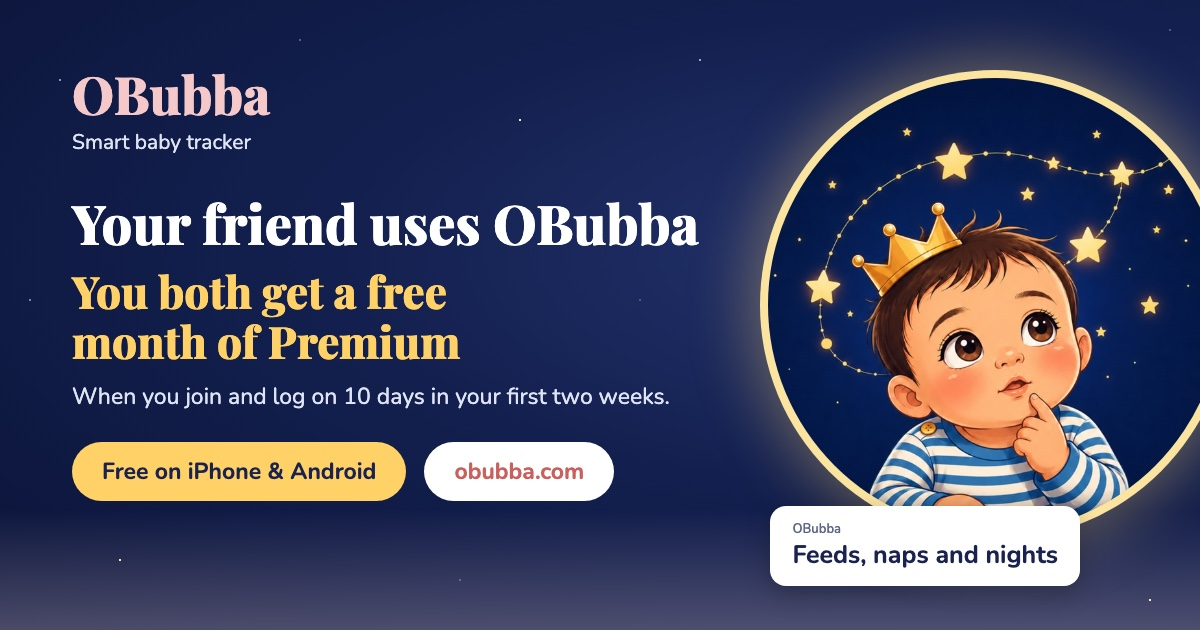
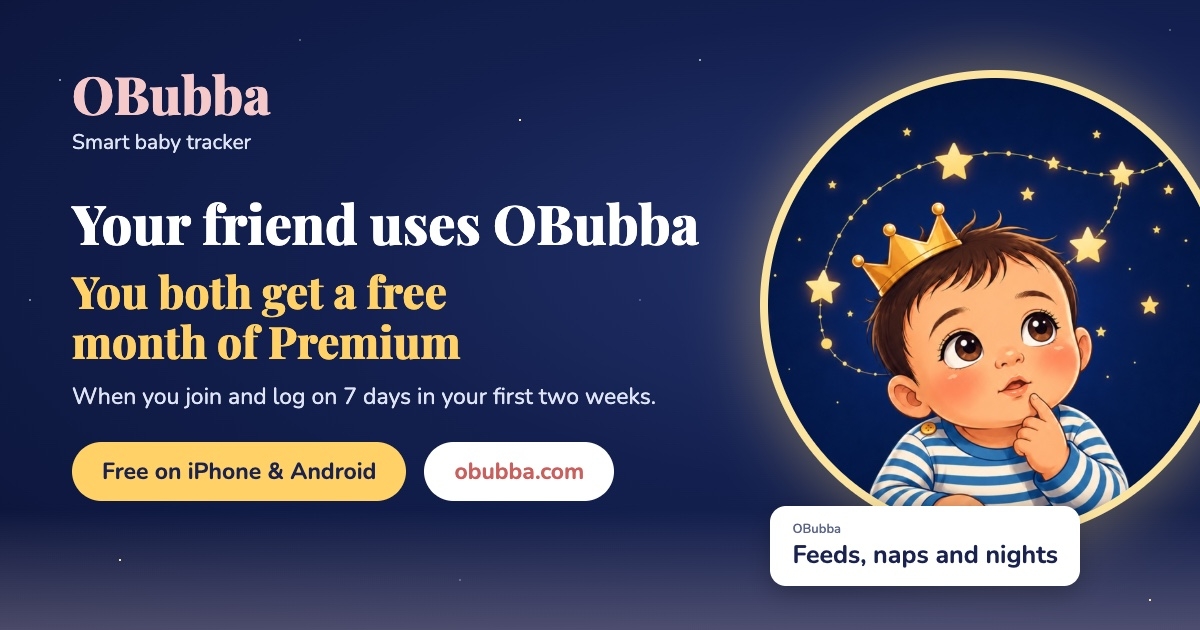
Deploy 4fbd3cc

Changed region(s): [[0.2775, 0.6032, 0.555, 0.6635], [0.3392, 0.5429, 0.37, 0.573]]

diff --git a/r/OB-ZDKVHM4Z/index.html b/r/OB-ZDKVHM4Z/index.html
@@ -4,16 +4,16 @@
   <meta charset="utf-8"/>
   <meta name="viewport" content="width=device-width,initial-scale=1"/>
   <title>Your friend uses OBubba</title>
-  <meta name="description" content="Use their code, log something on 10 days in your first two weeks, and you both get a free month of Premium."/>
+  <meta name="description" content="Use their code, log something on 7 days in your first two weeks, and you both get a free month of Premium."/>
   <meta name="robots" content="noindex"/>
   <meta property="og:type" content="website"/>
   <meta property="og:site_name" content="OBubba"/>
   <meta property="og:title" content="Your friend uses OBubba"/>
-  <meta property="og:description" content="Use their code, log something on 10 days in your first two weeks, and you both get a free month of Premium."/>
+  <meta property="og:description" content="Use their code, log something on 7 days in your first two weeks, and you both get a free month of Premium."/>
   <meta property="og:image" content="https://obubba.com/og/invite-friend.jpg"/>
   <meta property="og:image:width" content="1200"/>
   <meta property="og:image:height" content="630"/>
-  <meta property="og:image:alt" content="Your friend uses OBubba. You both get a free month of Premium when you join and log on 10 days in your first two weeks."/>
+  <meta property="og:image:alt" content="Your friend uses OBubba. You both get a free month of Premium when you join and log on 7 days in your first two weeks."/>
   <meta name="twitter:image" content="https://obubba.com/og/invite-friend.jpg"/>
   <meta property="og:url" content="https://obubba.com/r/OB-ZDKVHM4Z"/>
   <meta name="twitter:card" content="summary_large_image"/>

diff --git a/r/index.html b/r/index.html
@@ -4,16 +4,16 @@
   <meta charset="utf-8"/>
   <meta name="viewport" content="width=device-width,initial-scale=1"/>
   <title>Your friend uses OBubba</title>
-  <meta name="description" content="Use their code, log something on 10 days in your first two weeks, and you both get a free month of Premium."/>
+  <meta name="description" content="Use their code, log something on 7 days in your first two weeks, and you both get a free month of Premium."/>
   <meta name="robots" content="noindex"/>
   <meta property="og:type" content="website"/>
   <meta property="og:site_name" content="OBubba"/>
   <meta property="og:title" content="Your friend uses OBubba"/>
-  <meta property="og:description" content="Use their code, log something on 10 days in your first two weeks, and you both get a free month of Premium."/>
+  <meta property="og:description" content="Use their code, log something on 7 days in your first two weeks, and you both get a free month of Premium."/>
   <meta property="og:image" content="https://obubba.com/og/invite-friend.jpg"/>
   <meta property="og:image:width" content="1200"/>
   <meta property="og:image:height" content="630"/>
-  <meta property="og:image:alt" content="Your friend uses OBubba. You both get a free month of Premium when you join and log on 10 days in your first two weeks."/>
+  <meta property="og:image:alt" content="Your friend uses OBubba. You both get a free month of Premium when you join and log on 7 days in your first two weeks."/>
   <meta name="twitter:image" content="https://obubba.com/og/invite-friend.jpg"/>
   <meta property="og:url" content="https://obubba.com/r/"/>
   <meta name="twitter:card" content="summary_large_image"/>

diff --git a/ambassadors.html b/ambassadors.html
@@ -883,7 +883,7 @@
       <li><strong>Show us your sharing, whichever way suits you:</strong> use your personal invite link when you share, and we'll see who joins through it, or, if you'd rather not post links (we know lots of parents are wary of clicking links on social media), send screenshots of your comments and posts to <a href="mailto:hello@obubba.com">hello@obubba.com</a> at the end of each month.</li>
       <li><strong>After your first month of sharing, we switch on 3 months of Premium free.</strong></li>
       <li><strong>Premium renews every 3 months while you're sharing.</strong> There's no minimum or maximum. Your engagement is what earns your free Premium. If there's been no sharing, your account stays on the free version and nothing you've logged is lost.</li>
-      <li><strong>Your friends get a free month too.</strong> When a friend joins through your link and logs their baby on at least 10 days in their first 2 weeks, you each get a free month of Premium. Theirs starts when their trial ends; yours starts straight away. Up to 10 friends.</li>
+      <li><strong>Your friends get a free month too.</strong> When a friend joins through your link and logs their baby on at least 7 days in their first 2 weeks, you each get a free month of Premium. Theirs starts when their trial ends; yours starts straight away. Up to 10 friends.</li>
       <li><strong>Two rules:</strong> mention that you're an OBubba Ambassador when you share, and keep it out of App Store and Google Play reviews, because those have to stay unrewarded.</li>
     </ul>
 

diff --git a/r/OB-2Q5HDWF7/index.html b/r/OB-2Q5HDWF7/index.html
@@ -13,7 +13,7 @@
   <meta property="og:image" content="https://obubba.com/og/invite-friend.jpg"/>
   <meta property="og:image:width" content="1200"/>
   <meta property="og:image:height" content="630"/>
-  <meta property="og:image:alt" content="Your friend uses OBubba. You both get a free month of Premium when you join and log on 10 days in your first two weeks."/>
+  <meta property="og:image:alt" content="Your friend uses OBubba. You both get a free month of Premium when you join and log on 7 days in your first two weeks."/>
   <meta name="twitter:image" content="https://obubba.com/og/invite-friend.jpg"/>
   <meta property="og:url" content="https://obubba.com/r/OB-2Q5HDWF7"/>
   <meta name="twitter:card" content="summary_large_image"/>

diff --git a/r/OB-2TQGJW9Q/index.html b/r/OB-2TQGJW9Q/index.html
@@ -13,7 +13,7 @@
   <meta property="og:image" content="https://obubba.com/og/invite-friend.jpg"/>
   <meta property="og:image:width" content="1200"/>
   <meta property="og:image:height" content="630"/>
-  <meta property="og:image:alt" content="Your friend uses OBubba. You both get a free month of Premium when you join and log on 10 days in your first two weeks."/>
+  <meta property="og:image:alt" content="Your friend uses OBubba. You both get a free month of Premium when you join and log on 7 days in your first two weeks."/>
   <meta name="twitter:image" content="https://obubba.com/og/invite-friend.jpg"/>
   <meta property="og:url" content="https://obubba.com/r/OB-2TQGJW9Q"/>
   <meta name="twitter:card" content="summary_large_image"/>

diff --git a/r/OB-3GAXKEEK/index.html b/r/OB-3GAXKEEK/index.html
@@ -13,7 +13,7 @@
   <meta property="og:image" content="https://obubba.com/og/invite-friend.jpg"/>
   <meta property="og:image:width" content="1200"/>
   <meta property="og:image:height" content="630"/>
-  <meta property="og:image:alt" content="Your friend uses OBubba. You both get a free month of Premium when you join and log on 10 days in your first two weeks."/>
+  <meta property="og:image:alt" content="Your friend uses OBubba. You both get a free month of Premium when you join and log on 7 days in your first two weeks."/>
   <meta name="twitter:image" content="https://obubba.com/og/invite-friend.jpg"/>
   <meta property="og:url" content="https://obubba.com/r/OB-3GAXKEEK"/>
   <meta name="twitter:card" content="summary_large_image"/>

diff --git a/r/OB-FV3K2U4Y/index.html b/r/OB-FV3K2U4Y/index.html
@@ -13,7 +13,7 @@
   <meta property="og:image" content="https://obubba.com/og/invite-friend.jpg"/>
   <meta property="og:image:width" content="1200"/>
   <meta property="og:image:height" content="630"/>
-  <meta property="og:image:alt" content="Your friend uses OBubba. You both get a free month of Premium when you join and log on 10 days in your first two weeks."/>
+  <meta property="og:image:alt" content="Your friend uses OBubba. You both get a free month of Premium when you join and log on 7 days in your first two weeks."/>
   <meta name="twitter:image" content="https://obubba.com/og/invite-friend.jpg"/>
   <meta property="og:url" content="https://obubba.com/r/OB-FV3K2U4Y"/>
   <meta name="twitter:card" content="summary_large_image"/>

diff --git a/r/OB-HQJEQR5Q/index.html b/r/OB-HQJEQR5Q/index.html
@@ -13,7 +13,7 @@
   <meta property="og:image" content="https://obubba.com/og/invite-friend.jpg"/>
   <meta property="og:image:width" content="1200"/>
   <meta property="og:image:height" content="630"/>
-  <meta property="og:image:alt" content="Your friend uses OBubba. You both get a free month of Premium when you join and log on 10 days in your first two weeks."/>
+  <meta property="og:image:alt" content="Your friend uses OBubba. You both get a free month of Premium when you join and log on 7 days in your first two weeks."/>
   <meta name="twitter:image" content="https://obubba.com/og/invite-friend.jpg"/>
   <meta property="og:url" content="https://obubba.com/r/OB-HQJEQR5Q"/>
   <meta name="twitter:card" content="summary_large_image"/>

diff --git a/r/OB-RNF9AKBF/index.html b/r/OB-RNF9AKBF/index.html
@@ -13,7 +13,7 @@
   <meta property="og:image" content="https://obubba.com/og/invite-friend.jpg"/>
   <meta property="og:image:width" content="1200"/>
   <meta property="og:image:height" content="630"/>
-  <meta property="og:image:alt" content="Your friend uses OBubba. You both get a free month of Premium when you join and log on 10 days in your first two weeks."/>
+  <meta property="og:image:alt" content="Your friend uses OBubba. You both get a free month of Premium when you join and log on 7 days in your first two weeks."/>
   <meta name="twitter:image" content="https://obubba.com/og/invite-friend.jpg"/>
   <meta property="og:url" content="https://obubba.com/r/OB-RNF9AKBF"/>
   <meta name="twitter:card" content="summary_large_image"/>

diff --git a/r/OB-U3ZSBM3A/index.html b/r/OB-U3ZSBM3A/index.html
@@ -13,7 +13,7 @@
   <meta property="og:image" content="https://obubba.com/og/invite-friend.jpg"/>
   <meta property="og:image:width" content="1200"/>
   <meta property="og:image:height" content="630"/>
-  <meta property="og:image:alt" content="Your friend uses OBubba. You both get a free month of Premium when you join and log on 10 days in your first two weeks."/>
+  <meta property="og:image:alt" content="Your friend uses OBubba. You both get a free month of Premium when you join and log on 7 days in your first two weeks."/>
   <meta name="twitter:image" content="https://obubba.com/og/invite-friend.jpg"/>
   <meta property="og:url" content="https://obubba.com/r/OB-U3ZSBM3A"/>
   <meta name="twitter:card" content="summary_large_image"/>

diff --git a/r/OB-UAFPAW84/index.html b/r/OB-UAFPAW84/index.html
@@ -13,7 +13,7 @@
   <meta property="og:image" content="https://obubba.com/og/invite-friend.jpg"/>
   <meta property="og:image:width" content="1200"/>
   <meta property="og:image:height" content="630"/>
-  <meta property="og:image:alt" content="Your friend uses OBubba. You both get a free month of Premium when you join and log on 10 days in your first two weeks."/>
+  <meta property="og:image:alt" content="Your friend uses OBubba. You both get a free month of Premium when you join and log on 7 days in your first two weeks."/>
   <meta name="twitter:image" content="https://obubba.com/og/invite-friend.jpg"/>
   <meta property="og:url" content="https://obubba.com/r/OB-UAFPAW84"/>
   <meta name="twitter:card" content="summary_large_image"/>

diff --git a/r/OB-ZDG8SQ26/index.html b/r/OB-ZDG8SQ26/index.html
@@ -13,7 +13,7 @@
   <meta property="og:image" content="https://obubba.com/og/invite-friend.jpg"/>
   <meta property="og:image:width" content="1200"/>
   <meta property="og:image:height" content="630"/>
-  <meta property="og:image:alt" content="Your friend uses OBubba. You both get a free month of Premium when you join and log on 10 days in your first two weeks."/>
+  <meta property="og:image:alt" content="Your friend uses OBubba. You both get a free month of Premium when you join and log on 7 days in your first two weeks."/>
   <meta name="twitter:image" content="https://obubba.com/og/invite-friend.jpg"/>
   <meta property="og:url" content="https://obubba.com/r/OB-ZDG8SQ26"/>
   <meta name="twitter:card" content="summary_large_image"/>
